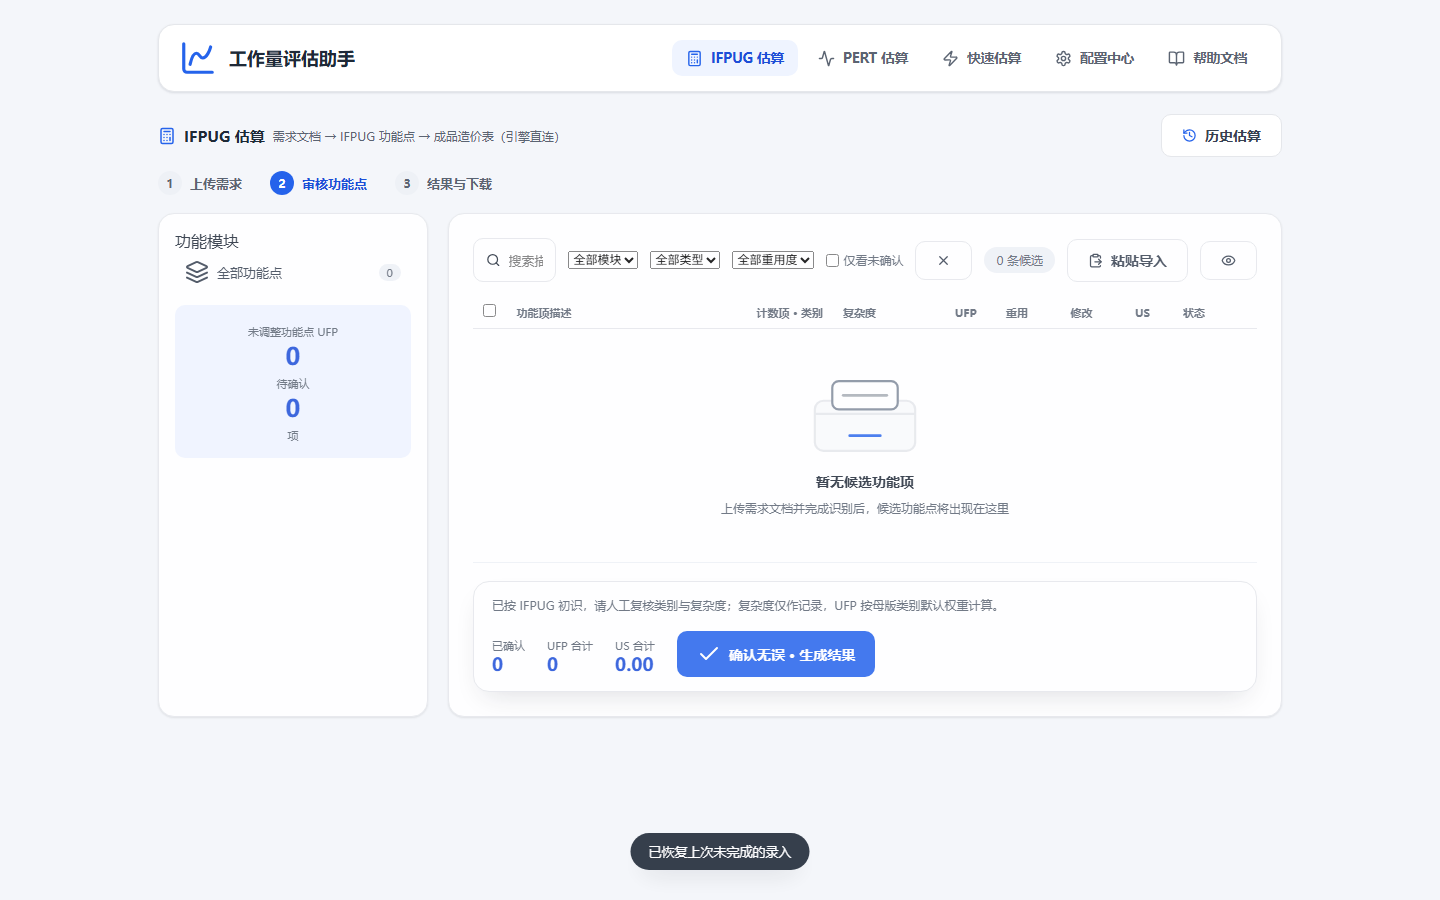
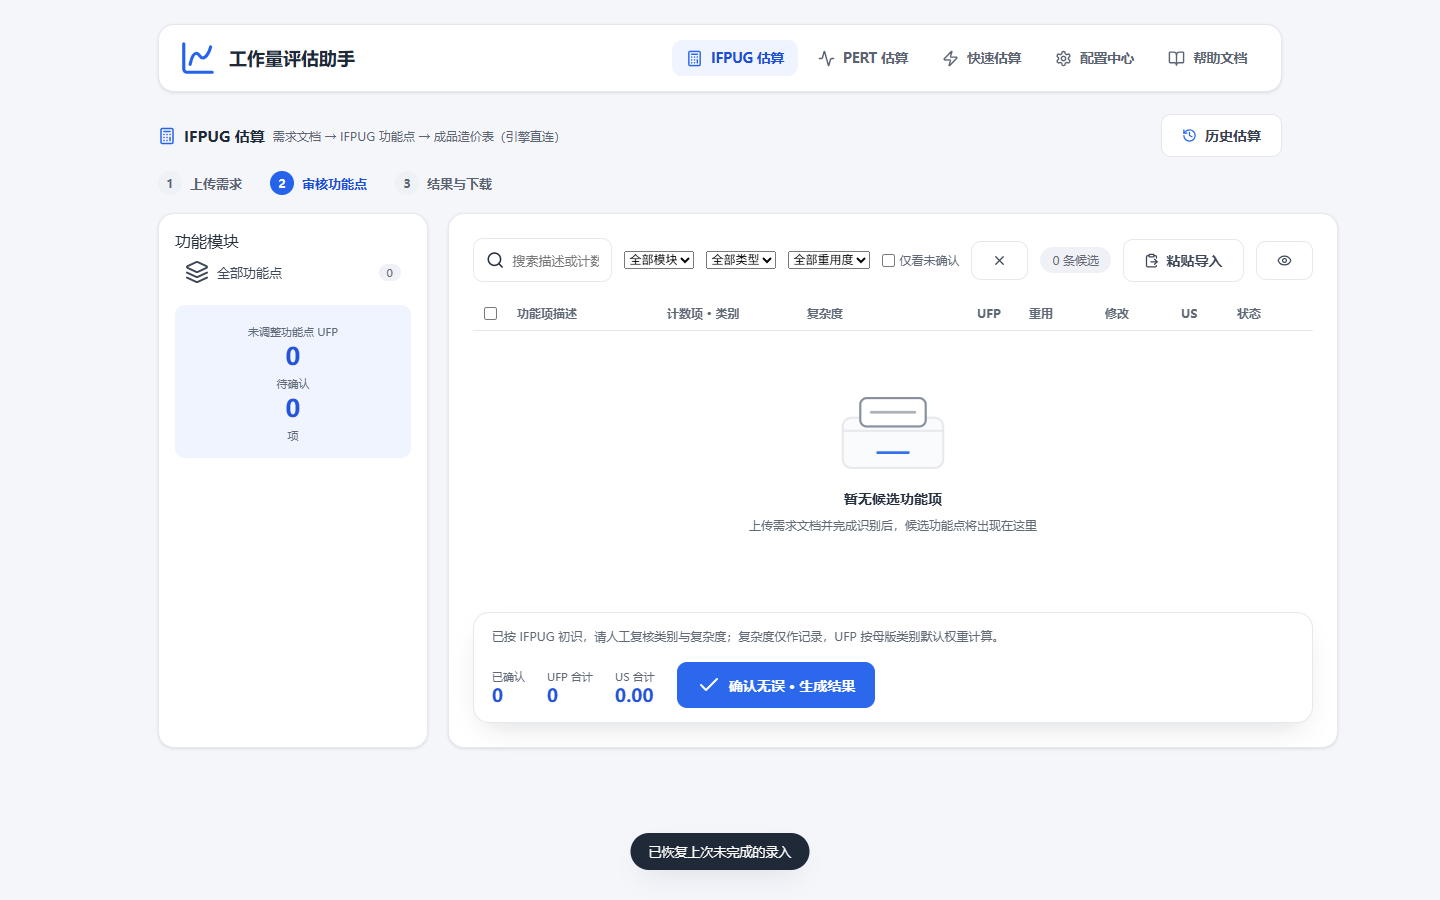
test(phase3): 更新最终批次证据与 WCAG 现状
三期五套件 4/5；10k 9/9（无头 59.8fps/长帧0.4%），i18n 10/10、单机4/4、空态5/5；a11y 4/17 保持缺口，复核页 label 项清零但 200% 横向溢出增至 945。

diff --git a/docs/test-reports/phase3-20261122/三期任务处理报告.md b/docs/test-reports/phase3-20261122/三期任务处理报告.md
@@ -38,11 +38,11 @@ axe-core 4.10.2 实测 serious/critical 未清零：
 | 页面 | 阻断项 |
 |---|---|
 | 上传页 | `label` 2（费率输入 2.57/10.67 无标签）、`select-name` 5（含 `#methodSel`） |
-| 复核页 | `aria-allowed-attr` 3（排序 `th` 同时 role=button + aria-sort）、`color-contrast` 60、`label` 20（行复选框）、`select-name` 83 |
+| 复核页 | `aria-allowed-attr` 3（排序表头同时 role=button + aria-sort）、`aria-required-children` 1（div rowgroup 拥有关系）、`color-contrast` 38、`select-name` 83；行复选框已补 `aria-label`，`label` 项由 20 清零 |
 | 配置页 | `label` 25、`select-name` 15、`color-contrast` 1 |
 | 帮助页 | `color-contrast` 1 |
 
-200% 缩放（1440 物理 / 720 CSS）：上传/配置/帮助 `docWidth=804`、复核 `855`，均大于 `vw=720`；上传/配置/帮助各 4 个可见控件被横向裁切，复核 11 个。AX 树还有 5 个可交互控件无可读名称。
+200% 缩放（1440 物理 / 720 CSS）：上传/配置/帮助 `docWidth=804`、复核 `945`，均大于 `vw=720`；上传/配置/帮助各 4 个可见控件被横向裁切，复核 13 个。AX 树还有 5 个可交互控件无可读名称。div 网格的固定列宽使复核页 200% 横向溢出从 855 增至 945，是 T06173 后续必须处理的回归点。
 
 **建议修复顺序**：先补 `aria-label`/`label` 与 select 名称（结构性、低风险）；再把排序表头改为 `role=columnheader + 内部 button` 或去掉非法 `aria-sort`；随后统一复核表 badge/次级文字对比度；最后补 ≤767px 的宽度约束与 200% 缩放回归。预计 2–3 人日，完成后重跑本套件至 17/17。
 
